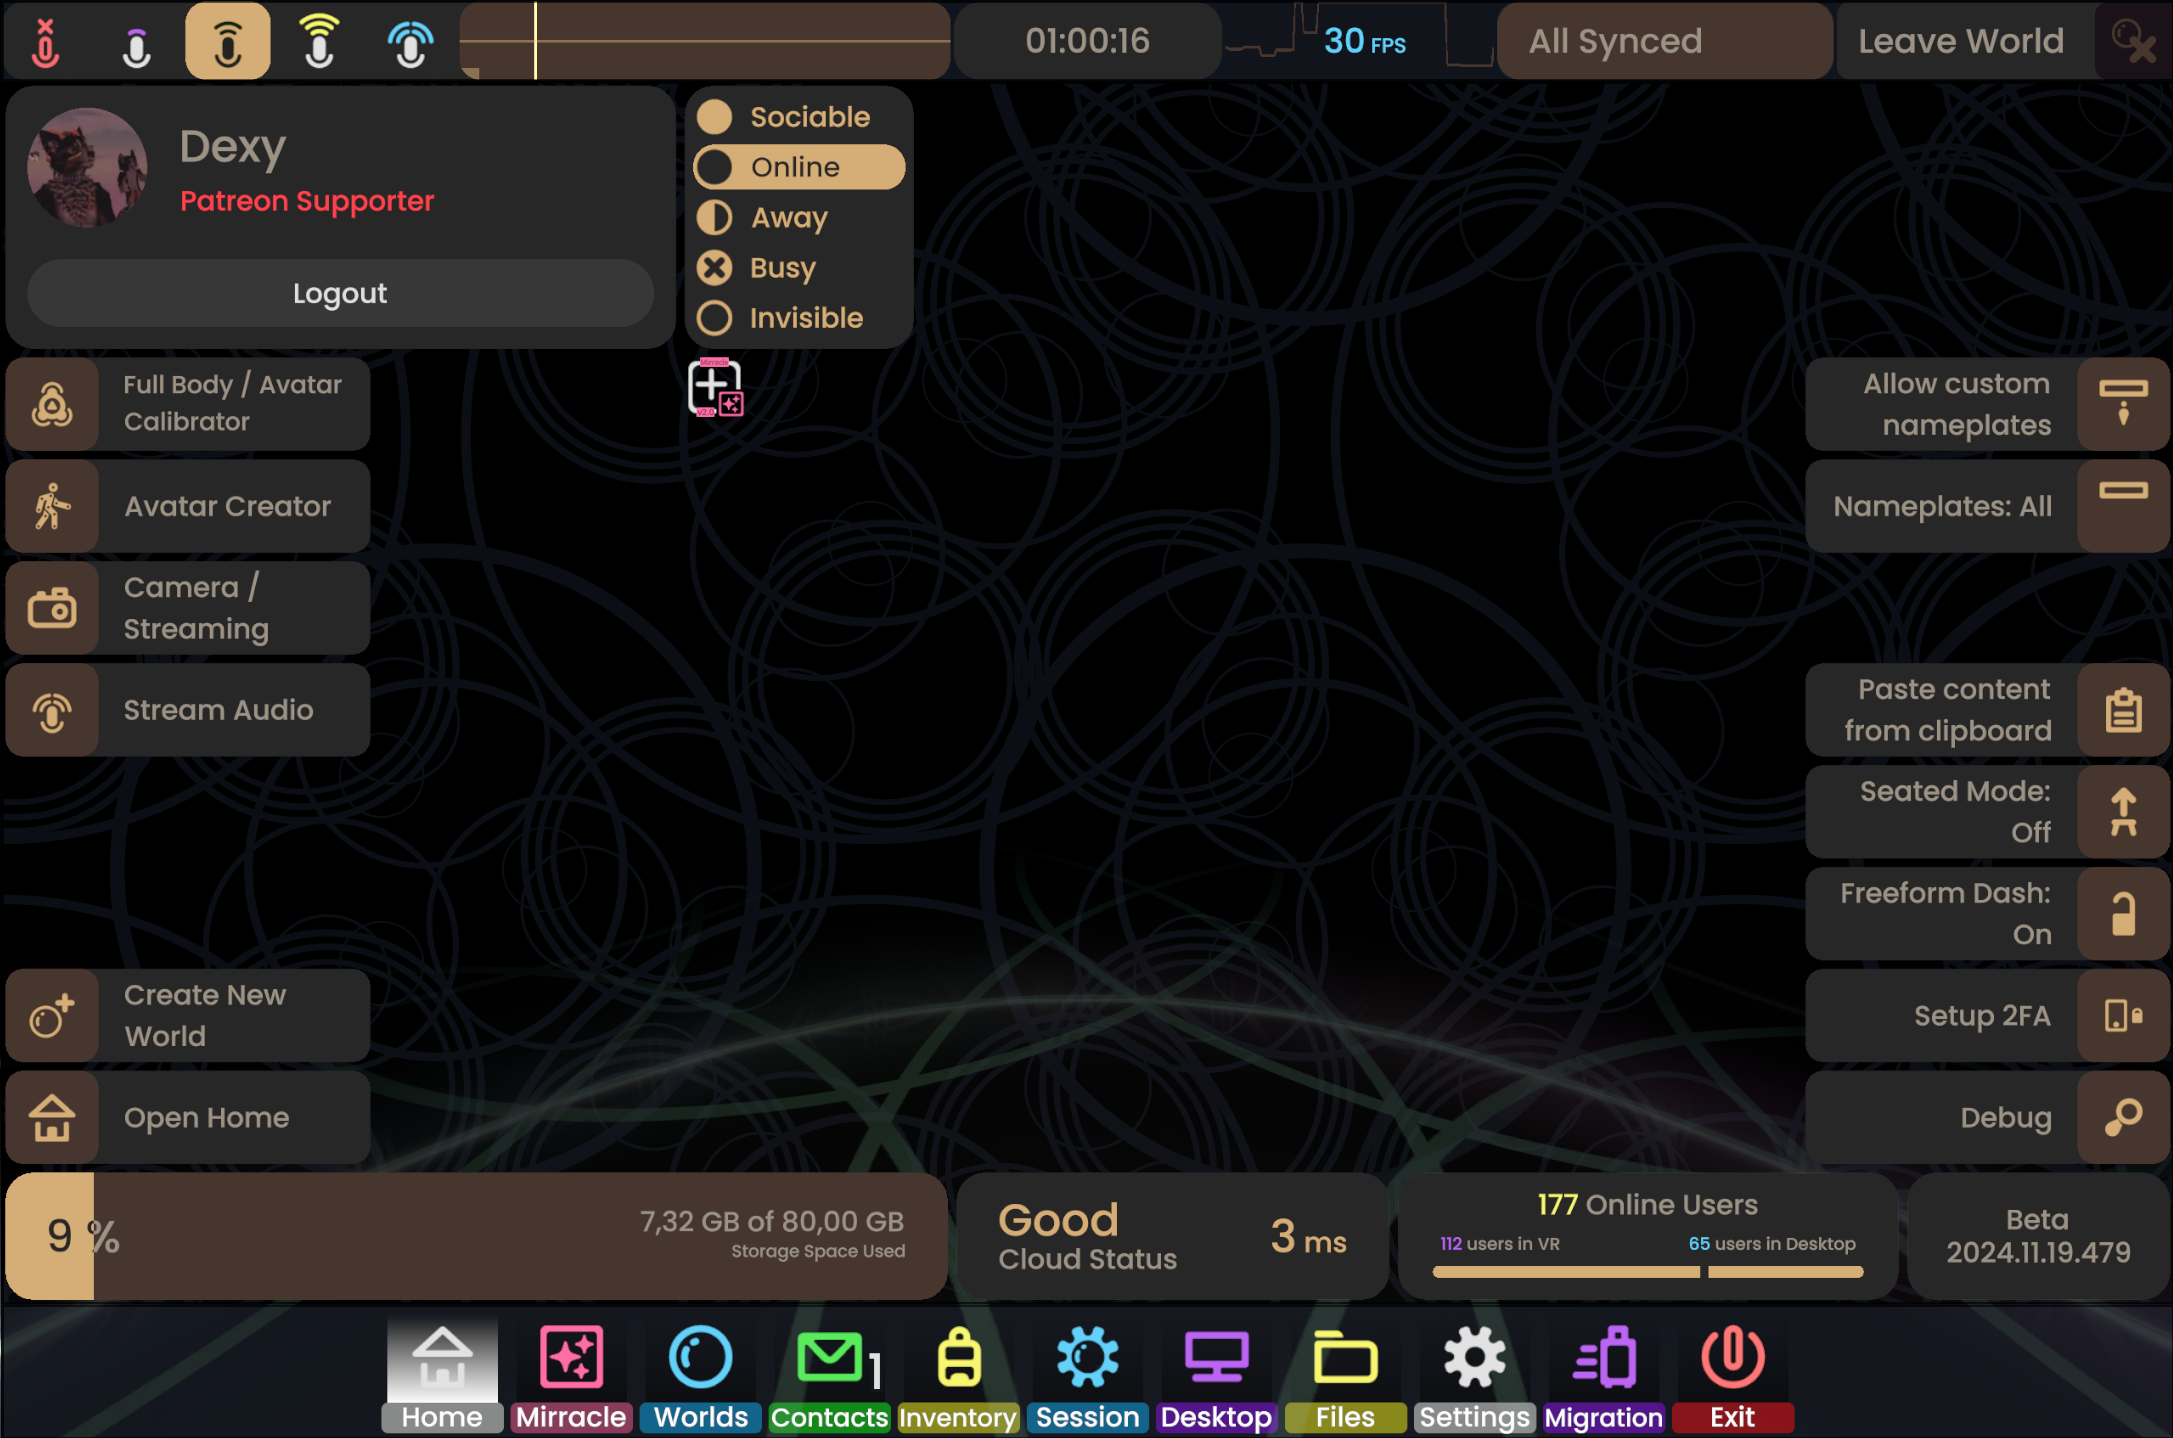
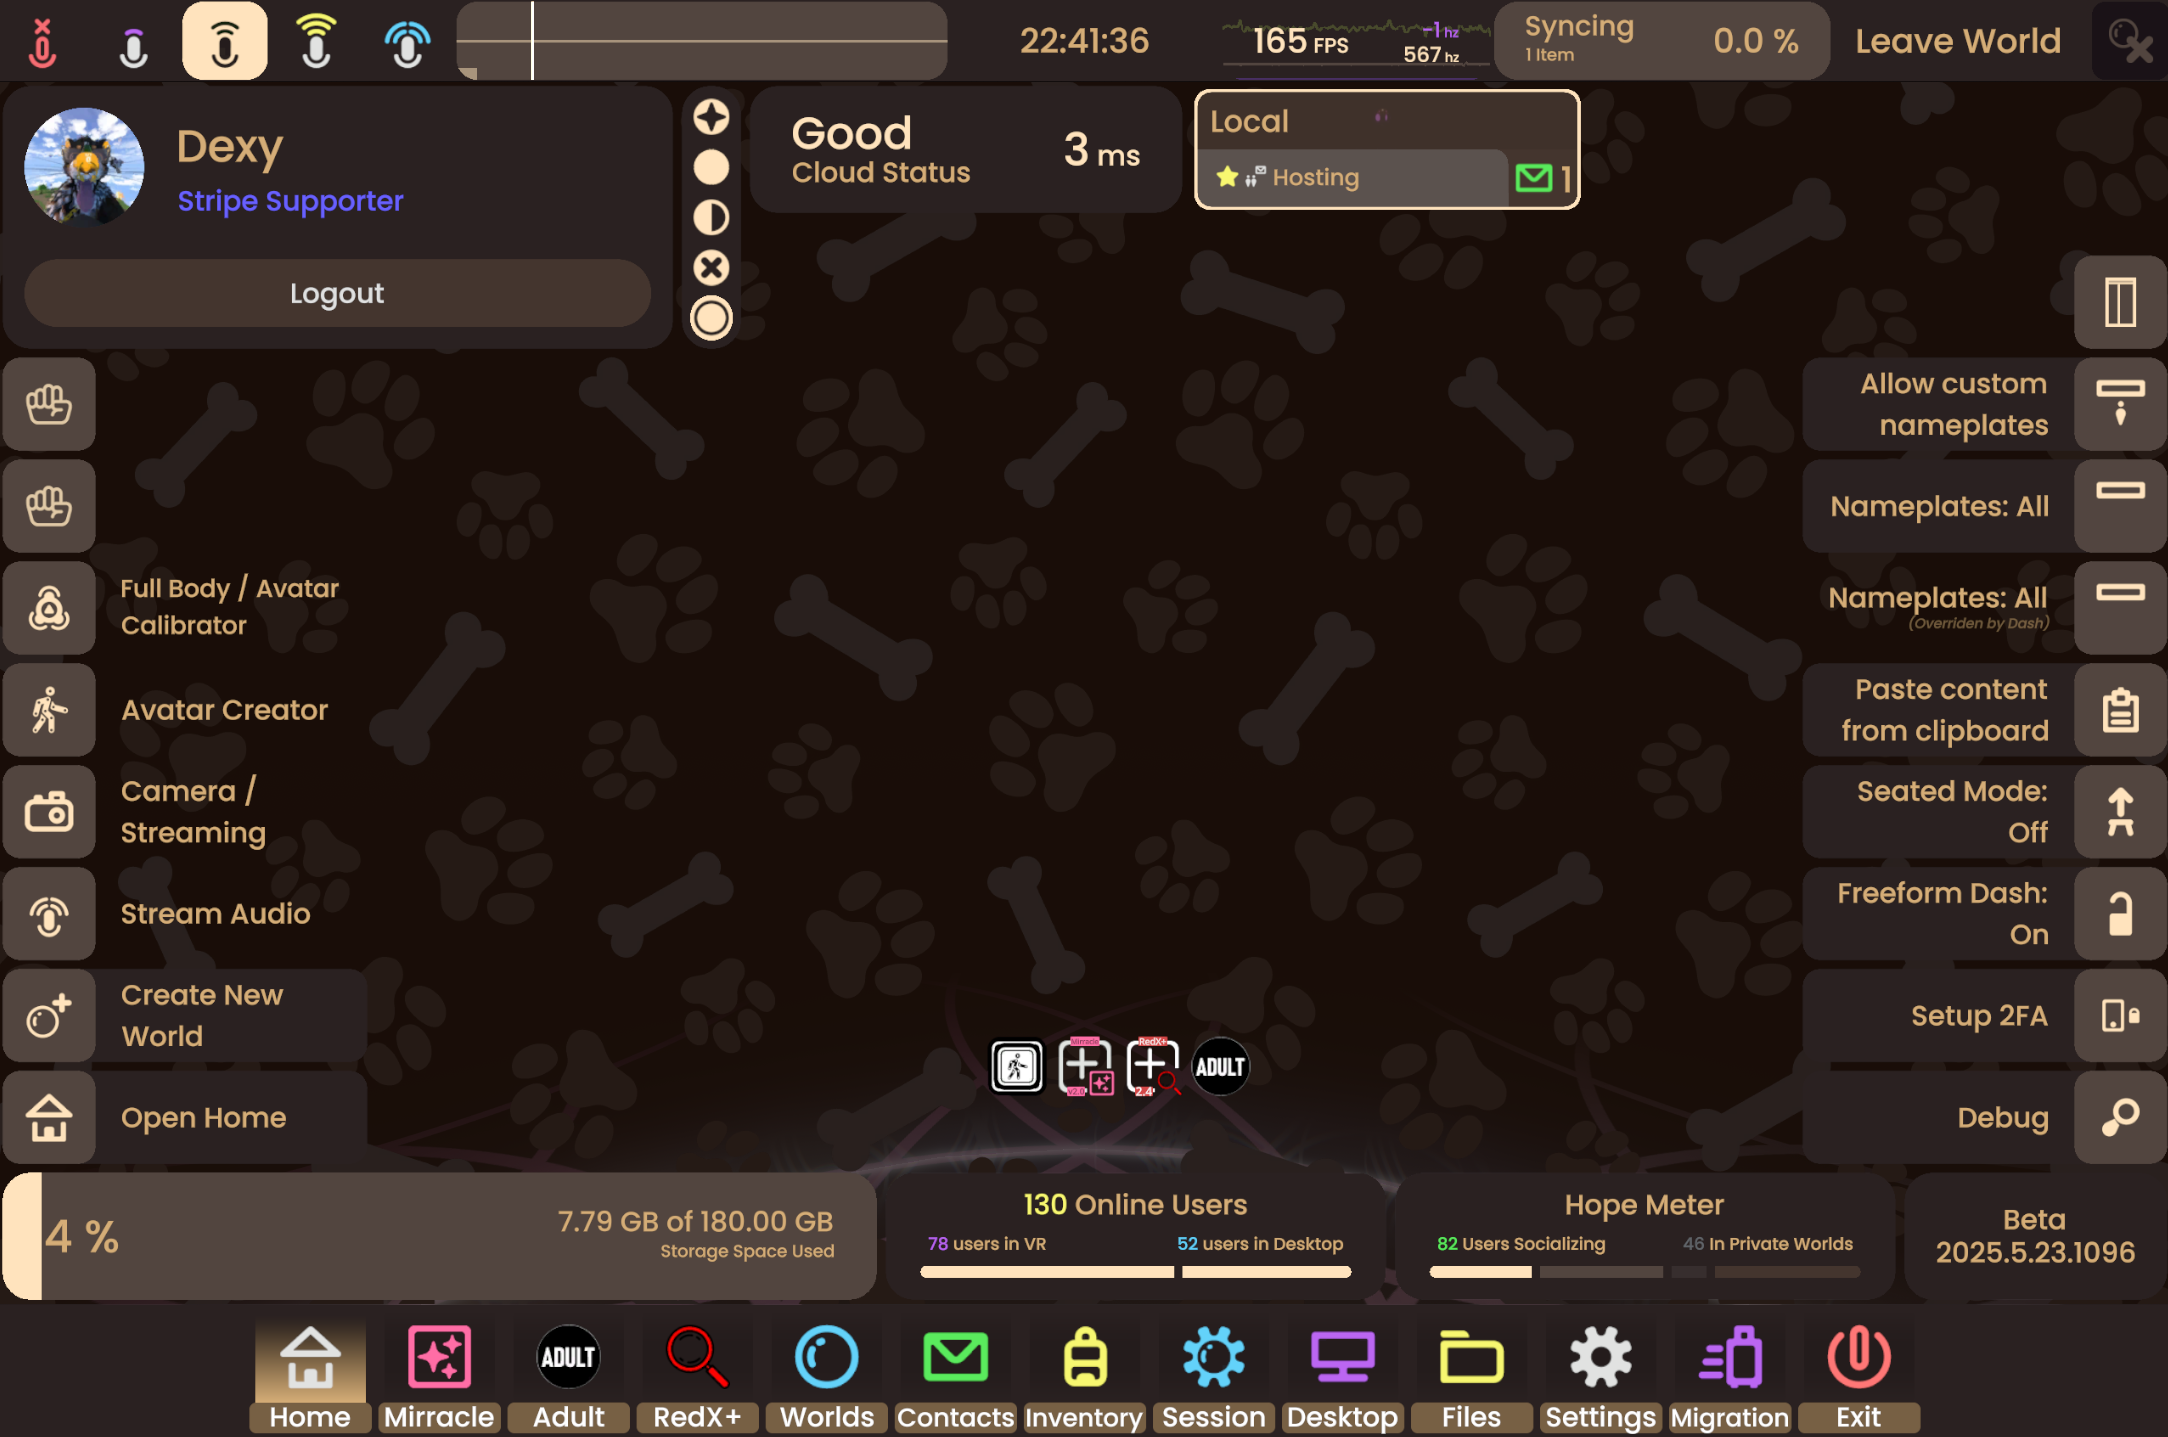
Update Images and readme

diff --git a/README.md b/README.md
@@ -2,9 +2,21 @@ CustomPlatformColors
 
 *Woof woof!* A [ResoniteModLoader](https://github.com/resonite-modding-group/ResoniteModLoader) mod for [Resonite](https://resonite.com/) that lets you customize your platform's color scheme! 🎨
 
-| Dashboard | UIX | Settings |
+## 🖼 Screenshots
+
+| Home | UIX | Settings |
 |:-------------:|:-------------:|:-------------:|
-| <img src="CustomPlatformColors/Images/Home.png" alt="Default platform colors" width="300"/> | <img src="CustomPlatformColors/Images/UIX.png" alt="Customized platform colors" width="300"/> | <img src="CustomPlatformColors/Images/Settings.png" alt="Customized platform colors" width="300"/> |
+| <img src="CustomPlatformColors/Images/Home.png" alt="Home dashboard with custom colors" width="300"/> | <img src="CustomPlatformColors/Images/UIX.png" alt="UIX interface with custom colors" width="300"/> | <img src="CustomPlatformColors/Images/Settings.png" alt="Settings panel with custom colors" width="300"/> |
+
+
+| Worlds | Inventory | Files |
+|:-------------:|:-------------:|:-------------:|
+| <img src="CustomPlatformColors/Images/Worlds.png" alt="Worlds browser with custom colors" width="300"/> | <img src="CustomPlatformColors/Images/Inventory.png" alt="Inventory interface with custom colors" width="300"/> | <img src="CustomPlatformColors/Images/Files.png" alt="Files browser with custom colors" width="300"/> |
+
+
+| Contacts | Session |
+|:-------------:|:-------------:|
+| <img src="CustomPlatformColors/Images/Contacts.png" alt="Contacts interface with custom colors" width="300"/> | <img src="CustomPlatformColors/Images/Session.png" alt="Session interface with custom colors" width="300"/> |
 
 ## 🦴 Features
 
